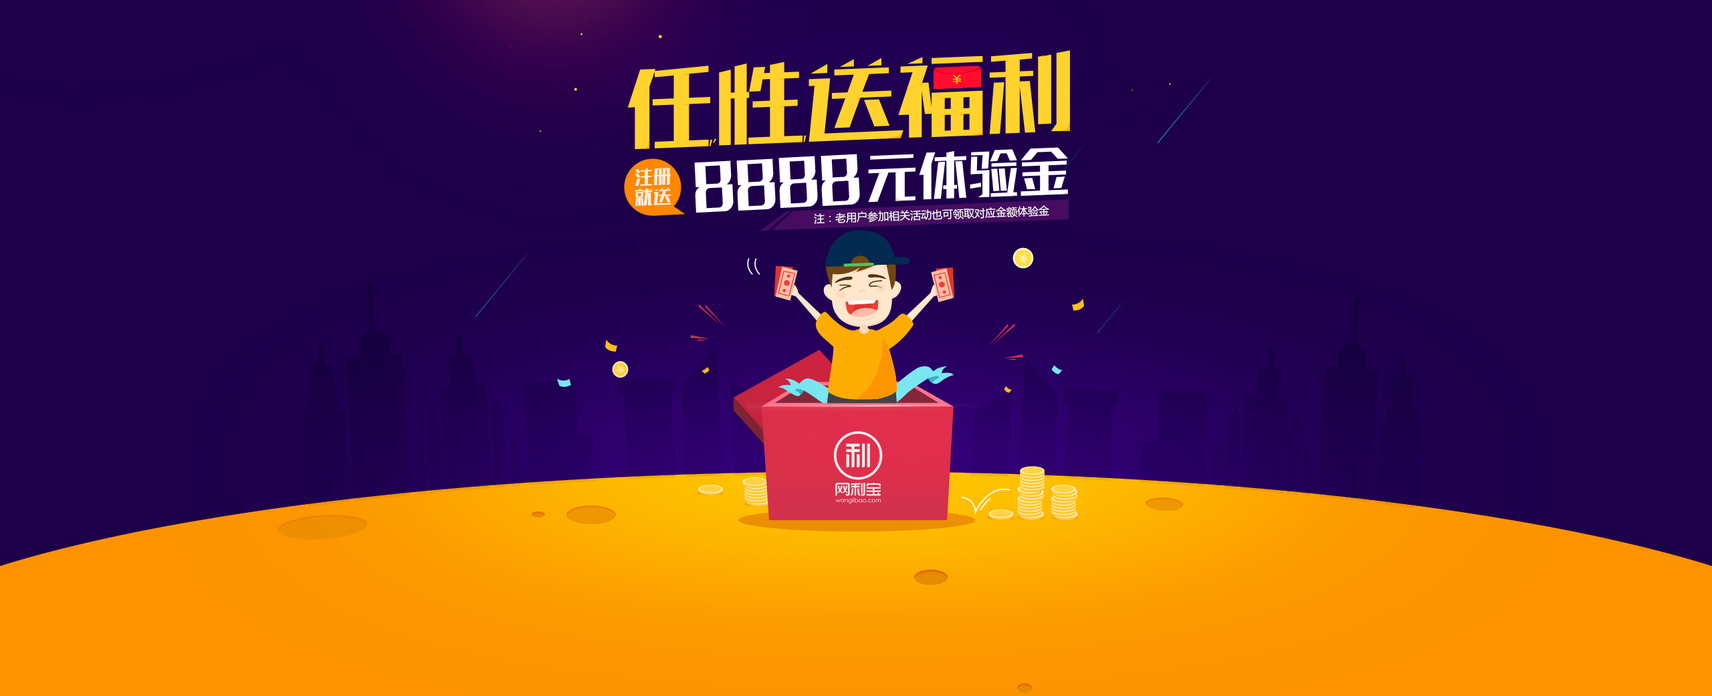
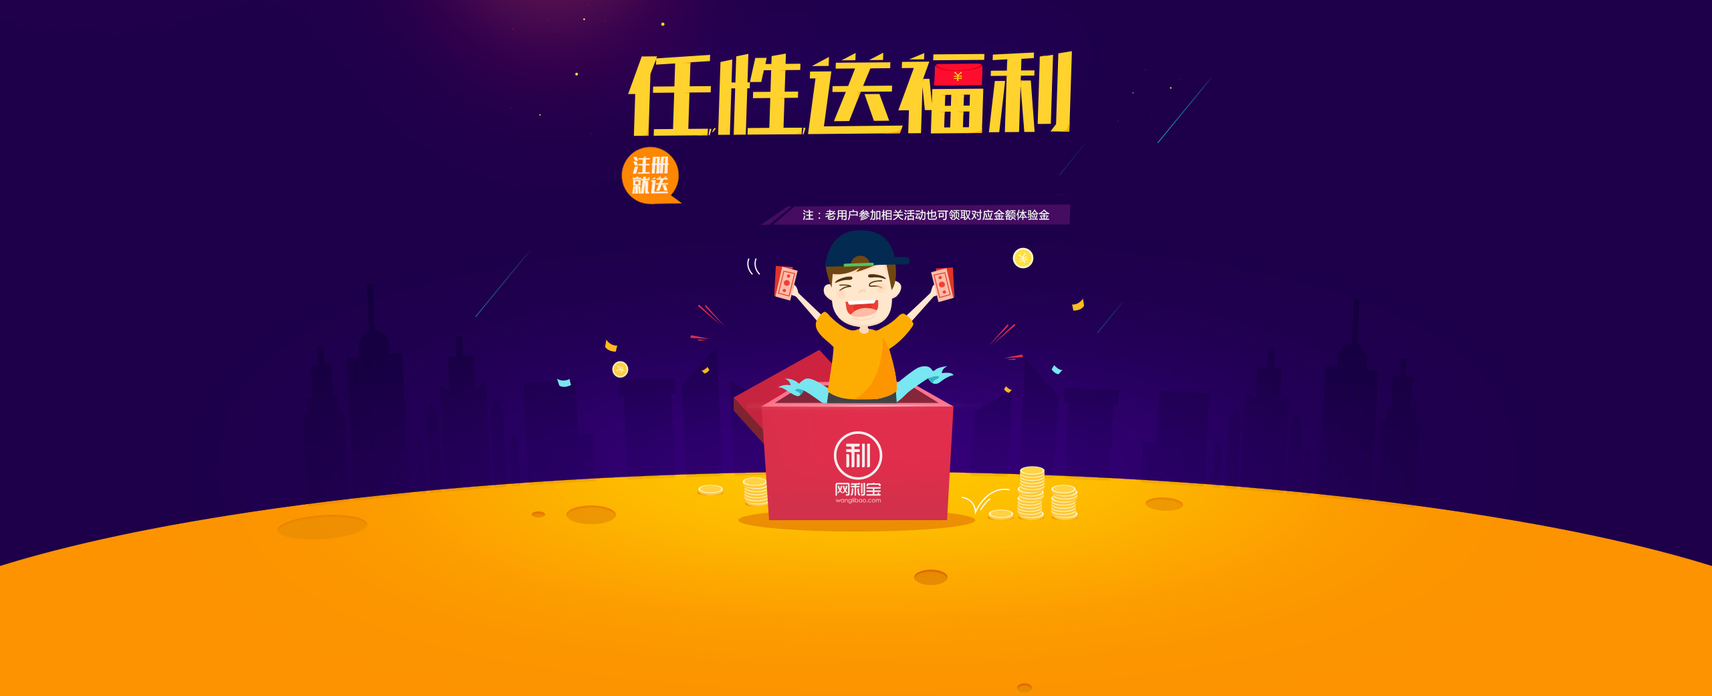
修改体验金金额

Changed region(s): [[0.3438, 0.0615, 0.625, 0.3381]]

diff --git a/static/styles/pc_activity/experience_gold.css b/static/styles/pc_activity/experience_gold.css
@@ -1,1 +1,1 @@
-.footer-sprite{background:url('../../imgs/pc/footer-s3376bb71f1.png') no-repeat}.home-sprite{background:url('../../imgs/pc/home-s9563fc9f50.png') no-repeat}.seckill-sprite{background:url('../../imgs/pc_activity/seckill-sa9edc467f3.png') no-repeat}.experience_gold-sprite,.experience_gold .banner .draw_btn a,.experience_gold .banner .draw_btn a:hover,.experience_gold .banner .draw_btn .draw_btn_ed,.experience_gold .banner .draw_btn .draw_btn_ed:hover,.experience_gold .content .experience_title span,.experience_gold .content .look_more_detail .more_btn span,.experience_gold .content .explain_box .explain_box_img .explain_content_box ul li span,#receiveSuccess a.close-modal,#oldUser a.close-modal,#newUser a.close-modal,#success a.close-modal,.receiveSuccess,.oldUser p span,.successBox p span{background:url('../../imgs/pc_activity/experience_gold-s13cfc1659e.png') no-repeat}.experience_gold{width:100%;height:100%}.experience_gold .banner{background:url("/static/imgs/pc_activity/experience_gold/banner.jpg") center center no-repeat;height:1041px;position:relative}.experience_gold .banner .draw_btn{position:absolute;bottom:38px;width:100%;text-align:center}.experience_gold .banner .draw_btn a{background-position:0 -528px;width:600px;height:100px;display:inline-block}.experience_gold .banner .draw_btn a:hover{background-position:0 -428px}.experience_gold .banner .draw_btn .draw_btn_ed{background-position:0 -914px;line-height:96px;font-size:36px;color:#f7cccc;font-weight:bold}.experience_gold .banner .draw_btn .draw_btn_ed:hover{background-position:0 -914px}.experience_gold .content{width:1097px;margin:0 auto}.experience_gold .content .experience_title{text-align:center;margin-top:135px}.experience_gold .content .experience_title span{background-position:0 -1038px;width:373px;height:69px;display:inline-block;color:#fff;text-align:center;font-size:30px;line-height:60px}.experience_gold .content .account_detail{padding:60px 57px}.experience_gold .content .account_detail li{background:#ffeed3;border-radius:10px;margin-right:73px;float:left;width:189px;height:112px;text-align:center}.experience_gold .content .account_detail li .experience_name{font-size:18px;color:#d0314b;padding:25px 0 5px}.experience_gold .content .account_detail li .experience_money{color:#f45e37;font-size:24px}.experience_gold .content .account_detail li.last{margin-right:0}.experience_gold .content .experience_project{padding:0 9px}.experience_gold .content .experience_project .project_div{background:#ffeed3;border-radius:8px;padding:25px 0 55px}.experience_gold .content .experience_project .project_div .project_left{width:815px;float:left}.experience_gold .content .experience_project .project_div .project_left h5{color:#d0314b;font-size:30px;text-indent:26px;margin-bottom:10px}.experience_gold .content .experience_project .project_div .project_left li{float:left;text-align:center}.experience_gold .content .experience_project .project_div .project_left li label{display:block;font-size:30px;color:#f45e37}.experience_gold .content .experience_project .project_div .project_left li span{display:block;font-size:20px;color:#fc8f02}.experience_gold .content .experience_project .project_div .project_left .li_one{width:196px}.experience_gold .content .experience_project .project_div .project_left .li_two{width:418px}.experience_gold .content .experience_project .project_div .project_left .li_three{width:199px}.experience_gold .content .experience_project .project_div .project_right{float:right}.experience_gold .content .experience_project .project_div .project_right a{width:234px;height:78px;line-height:78px;display:inline-block;background:#f45e37;color:#fff;border-radius:8px;text-align:center;font-size:30px;margin:50px 28px 0 0}.experience_gold .content .experience_project .project_div .project_right a.invest_ed{background:#fa8162}.experience_gold .content .experience_project .project_div .project_right .income_fonts{font-size:18px;color:#fc8f02;width:234px;text-align:center}.experience_gold .content .look_more_detail{text-align:center;padding:42px 0}.experience_gold .content .look_more_detail .more_btn{text-align:center;color:#c66032;font-size:20px;width:160px;margin:0 auto;cursor:pointer}.experience_gold .content .look_more_detail .more_btn label{cursor:pointer}.experience_gold .content .look_more_detail .more_btn span{background-position:0 -1107px;width:24px;height:18px;display:inline-block;cursor:pointer}.experience_gold .content .project_top{background:#86380a;height:12px;border-radius:20px;width:100%}.experience_gold .content .project_box{margin:-6px 10px 10px;background:#ffeed3;border-bottom-left-radius:10px;border-bottom-right-radius:10px}.experience_gold .content .project_box .project_ul_pre{padding:24px 24px 38px;background:url(/static/imgs/pc_activity/experience_gold/border.jpg) repeat-x top center}.experience_gold .content .project_box .project_ul_pre table{table-layout:fixed;border-collapse:collapse;width:100%}.experience_gold .content .project_box .project_ul_pre table thead{background:#f7deb6}.experience_gold .content .project_box .project_ul_pre table .th_w{width:178px}.experience_gold .content .project_box .project_ul_pre table tr{height:53px}.experience_gold .content .project_box .project_ul_pre table th,.experience_gold .content .project_box .project_ul_pre table td{text-align:center;font-size:16px}.experience_gold .content .project_box .project_ul_pre table tr:nth-child(even){background:#fffaf1}.experience_gold .content .explain_box{margin:65px 0 130px}.experience_gold .content .explain_box .explain_box_img{background:url(/static/imgs/pc_activity/experience_gold/explain.jpg) center center no-repeat;width:1021px;height:872px;margin:0 auto}.experience_gold .content .explain_box .explain_box_img .explain_content_box{width:745px;padding-top:86px;margin:0 auto}.experience_gold .content .explain_box .explain_box_img .explain_content_box .title_ex{text-align:center;font-size:20px;color:#d03144}.experience_gold .content .explain_box .explain_box_img .explain_content_box ul li{margin-top:50px}.experience_gold .content .explain_box .explain_box_img .explain_content_box ul li span{float:left;margin:5px 30px 0 0;background-position:0 -1014px;width:25px;height:24px;display:inline-block}.experience_gold .content .explain_box .explain_box_img .explain_content_box ul li .explain_content{float:left;width:688px;color:#705848;font-size:16px;line-height:31px}.experience_gold .content .explain_box .explain_box_img .explain_content_box ul li .explain_content .name{color:#624838}#receiveSuccess{width:515px;height:428px;text-align:center}#receiveSuccess a.close-modal{top:-5px;right:10px;background-position:0 -1125px;width:22px;height:22px;position:absolute;text-indent:-9999px}#oldUser,#newUser,#success{background:#fff;width:352px;border-radius:20px;padding:50px 0 30px}#oldUser a.close-modal,#newUser a.close-modal,#success a.close-modal{top:-5px;right:10px;background-position:0 -1125px;width:22px;height:22px;position:absolute;text-indent:-9999px;top:10px;right:10px}.btn,.receiveSuccess p a,.oldUser p.tc a{width:280px;height:48px;line-height:48px;background:#fb7c00;font-size:22px;color:#fff;border-radius:30px;display:inline-block}.receiveSuccess{background-position:0 0;width:515px;height:428px;padding-top:80px}.receiveSuccess p{line-height:50px;font-size:30px;color:#fff;text-align:center}.receiveSuccess p a{margin-top:40px}.receiveSuccess .money_count{font-size:60px;font-weight:bold;margin-bottom:50px}.receiveSuccess .money_count span{font-size:36px}.oldUser{width:350px;font-size:22px;color:#3f3f41}.oldUser p{text-indent:63px}.oldUser p span{background-position:0 -628px;width:124px;height:124px;display:inline-block;margin:10px 0 30px}.oldUser p.tc{text-align:center;text-indent:0}.oldUser p.tc a{background:#d1d1d1;color:#fff}.successBox{width:350px;text-align:center}.successBox p{font-size:22px;color:#3f3f41}.successBox p span{background-position:0 -752px;width:162px;height:162px;display:inline-block;margin:0 0 20px}.successBox p.succeesFonts{color:#fb7c00;font-size:30px;padding-bottom:5px}
+.footer-sprite{background:url('../../imgs/pc/footer-s3376bb71f1.png') no-repeat}.home-sprite{background:url('../../imgs/pc/home-s9563fc9f50.png') no-repeat}.seckill-sprite{background:url('../../imgs/pc_activity/seckill-sa9edc467f3.png') no-repeat}.experience_gold-sprite,.experience_gold .banner .draw_btn a,.experience_gold .banner .draw_btn a:hover,.experience_gold .banner .draw_btn .draw_btn_ed,.experience_gold .banner .draw_btn .draw_btn_ed:hover,.experience_gold .content .experience_title span,.experience_gold .content .look_more_detail .more_btn span,.experience_gold .content .explain_box .explain_box_img .explain_content_box ul li span,#receiveSuccess a.close-modal,#oldUser a.close-modal,#newUser a.close-modal,#success a.close-modal,.receiveSuccess,.oldUser p span,.successBox p span{background:url('../../imgs/pc_activity/experience_gold-s13cfc1659e.png') no-repeat}.experience_gold{width:100%;height:100%}.experience_gold .banner{background:url("/static/imgs/pc_activity/experience_gold/banner.jpg") center center no-repeat;height:1041px;position:relative}.experience_gold .banner .experience_gold_sum{width:980px;margin:0 auto;height:100px;position:relative}.experience_gold .banner .experience_gold_sum .experience_gold_sum_s{position:absolute;left:245px;top:200px;font-size:80.6px;color:#fff;font-weight:bold}.experience_gold .banner .draw_btn{position:absolute;bottom:38px;width:100%;text-align:center}.experience_gold .banner .draw_btn a{background-position:0 -528px;width:600px;height:100px;display:inline-block}.experience_gold .banner .draw_btn a:hover{background-position:0 -428px}.experience_gold .banner .draw_btn .draw_btn_ed{background-position:0 -914px;line-height:96px;font-size:36px;color:#f7cccc;font-weight:bold}.experience_gold .banner .draw_btn .draw_btn_ed:hover{background-position:0 -914px}.experience_gold .content{width:1097px;margin:0 auto}.experience_gold .content .experience_title{text-align:center;margin-top:135px}.experience_gold .content .experience_title span{background-position:0 -1038px;width:373px;height:69px;display:inline-block;color:#fff;text-align:center;font-size:30px;line-height:60px}.experience_gold .content .account_detail{padding:60px 57px}.experience_gold .content .account_detail li{background:#ffeed3;border-radius:10px;margin-right:73px;float:left;width:189px;height:112px;text-align:center}.experience_gold .content .account_detail li .experience_name{font-size:18px;color:#d0314b;padding:25px 0 5px}.experience_gold .content .account_detail li .experience_money{color:#f45e37;font-size:24px}.experience_gold .content .account_detail li.last{margin-right:0}.experience_gold .content .experience_project{padding:0 9px}.experience_gold .content .experience_project .project_div{background:#ffeed3;border-radius:8px;padding:25px 0 55px}.experience_gold .content .experience_project .project_div .project_left{width:815px;float:left}.experience_gold .content .experience_project .project_div .project_left h5{color:#d0314b;font-size:30px;text-indent:26px;margin-bottom:10px}.experience_gold .content .experience_project .project_div .project_left li{float:left;text-align:center}.experience_gold .content .experience_project .project_div .project_left li label{display:block;font-size:30px;color:#f45e37}.experience_gold .content .experience_project .project_div .project_left li span{display:block;font-size:20px;color:#fc8f02}.experience_gold .content .experience_project .project_div .project_left .li_one{width:196px}.experience_gold .content .experience_project .project_div .project_left .li_two{width:418px}.experience_gold .content .experience_project .project_div .project_left .li_three{width:199px}.experience_gold .content .experience_project .project_div .project_right{float:right}.experience_gold .content .experience_project .project_div .project_right a{width:234px;height:78px;line-height:78px;display:inline-block;background:#f45e37;color:#fff;border-radius:8px;text-align:center;font-size:30px;margin:50px 28px 0 0}.experience_gold .content .experience_project .project_div .project_right a.invest_ed{background:#fa8162}.experience_gold .content .experience_project .project_div .project_right .income_fonts{font-size:18px;color:#fc8f02;width:234px;text-align:center}.experience_gold .content .look_more_detail{text-align:center;padding:42px 0}.experience_gold .content .look_more_detail .more_btn{text-align:center;color:#c66032;font-size:20px;width:160px;margin:0 auto;cursor:pointer}.experience_gold .content .look_more_detail .more_btn label{cursor:pointer}.experience_gold .content .look_more_detail .more_btn span{background-position:0 -1107px;width:24px;height:18px;display:inline-block;cursor:pointer}.experience_gold .content .project_top{background:#86380a;height:12px;border-radius:20px;width:100%}.experience_gold .content .project_box{margin:-6px 10px 10px;background:#ffeed3;border-bottom-left-radius:10px;border-bottom-right-radius:10px}.experience_gold .content .project_box .project_ul_pre{padding:24px 24px 38px;background:url(/static/imgs/pc_activity/experience_gold/border.jpg) repeat-x top center}.experience_gold .content .project_box .project_ul_pre table{table-layout:fixed;border-collapse:collapse;width:100%}.experience_gold .content .project_box .project_ul_pre table thead{background:#f7deb6}.experience_gold .content .project_box .project_ul_pre table .th_w{width:178px}.experience_gold .content .project_box .project_ul_pre table tr{height:53px}.experience_gold .content .project_box .project_ul_pre table th,.experience_gold .content .project_box .project_ul_pre table td{text-align:center;font-size:16px}.experience_gold .content .project_box .project_ul_pre table tr:nth-child(even){background:#fffaf1}.experience_gold .content .explain_box{margin:65px 0 130px}.experience_gold .content .explain_box .explain_box_img{background:url(/static/imgs/pc_activity/experience_gold/explain.jpg) center center no-repeat;width:1021px;height:872px;margin:0 auto}.experience_gold .content .explain_box .explain_box_img .explain_content_box{width:745px;padding-top:86px;margin:0 auto}.experience_gold .content .explain_box .explain_box_img .explain_content_box .title_ex{text-align:center;font-size:20px;color:#d03144}.experience_gold .content .explain_box .explain_box_img .explain_content_box ul li{margin-top:50px}.experience_gold .content .explain_box .explain_box_img .explain_content_box ul li span{float:left;margin:5px 30px 0 0;background-position:0 -1014px;width:25px;height:24px;display:inline-block}.experience_gold .content .explain_box .explain_box_img .explain_content_box ul li .explain_content{float:left;width:688px;color:#705848;font-size:16px;line-height:31px}.experience_gold .content .explain_box .explain_box_img .explain_content_box ul li .explain_content .name{color:#624838}#receiveSuccess{width:515px;height:428px;text-align:center}#receiveSuccess a.close-modal{top:-5px;right:10px;background-position:0 -1125px;width:22px;height:22px;position:absolute;text-indent:-9999px}#oldUser,#newUser,#success{background:#fff;width:352px;border-radius:20px;padding:50px 0 30px}#oldUser a.close-modal,#newUser a.close-modal,#success a.close-modal{top:-5px;right:10px;background-position:0 -1125px;width:22px;height:22px;position:absolute;text-indent:-9999px;top:10px;right:10px}.btn,.receiveSuccess p a,.oldUser p.tc a{width:280px;height:48px;line-height:48px;background:#fb7c00;font-size:22px;color:#fff;border-radius:30px;display:inline-block}.receiveSuccess{background-position:0 0;width:515px;height:428px;padding-top:80px}.receiveSuccess p{line-height:50px;font-size:30px;color:#fff;text-align:center}.receiveSuccess p a{margin-top:40px}.receiveSuccess .money_count{font-size:60px;font-weight:bold;margin-bottom:50px}.receiveSuccess .money_count span{font-size:36px}.oldUser{width:350px;font-size:22px;color:#3f3f41}.oldUser p{text-indent:63px}.oldUser p span{background-position:0 -628px;width:124px;height:124px;display:inline-block;margin:10px 0 30px}.oldUser p.tc{text-align:center;text-indent:0}.oldUser p.tc a{background:#d1d1d1;color:#fff}.successBox{width:350px;text-align:center}.successBox p{font-size:22px;color:#3f3f41}.successBox p span{background-position:0 -752px;width:162px;height:162px;display:inline-block;margin:0 0 20px}.successBox p.succeesFonts{color:#fb7c00;font-size:30px;padding-bottom:5px}

diff --git a/static/styles/mobile_activity/app_experience.css b/static/styles/mobile_activity/app_experience.css
@@ -1,1 +1,1 @@
-@keyframes mysnow{0%{bottom:100%;opacity:0}50%{opacity:1;transform:rotate(1080deg)}100%{transform:rotate(0deg);opacity:0;bottom:0}}@-webkit-keyframes mysnow{0%{bottom:100%;opacity:0}50%{opacity:1;-webkit-transform:rotate(1080deg)}100%{-webkit-transform:rotate(0deg);opacity:0;bottom:0}}@-moz-keyframes mysnow{0%{bottom:100%;opacity:0}50%{opacity:1;-webkit-transform:rotate(1080deg)}100%{-webkit-transform:rotate(0deg);opacity:0;bottom:0}}@-o-keyframes mysnow{0%{bottom:100%;opacity:0}50%{opacity:1;-webkit-transform:rotate(1080deg)}100%{-webkit-transform:rotate(0deg);opacity:0;bottom:0}}html{font-size:20px;background:#efeff4}html *{outline:none;-webkit-text-size-adjust:none;-webkit-tap-highlight-color:rgba(0,0,0,0);-webkit-box-sizing:border-box}html,body{font-family:"Helvetica Neue",Helvetica,Arial,sans-serif}body,div,dl,dt,dd,ul,ol,li,h1,h2,h3,h4,h5,h6,form,input,textarea,p,th,td,hr,button,article,aside,footer,header,menu,nav,section{margin:0;padding:0}input,select,textarea{font-size:100%}table{border-collapse:collapse;border-spacing:0}img{border:0}ol,ul{list-style:none}h1,h2,h3,h4,h5,h6{font-size:100%;font-weight:500}a{text-decoration:none;cursor:auto;color:inherit}a:visited{color:inherit}body{background:#fc9300}.banner{position:relative}.banner img{width:100%}.banner .receive_box{position:absolute;width:100%;text-align:center;bottom:0.45rem;padding:0 1.825rem}.banner .receive_box .invested,.banner .receive_box .investedH{width:100%;height:2.5rem;line-height:2.5rem;background:url(/static/imgs/mobile_activity/app_experience/ed.png) no-repeat;background-size:100% 100%;font-size:0.9rem;color:#f7cccc;font-weight:bold}.my_experience_gold{margin-top:1rem;border-top:2px dashed #d56900}.title{padding:1.325rem 3.25rem 1.475rem;text-align:center}.title .title_img{background:url(/static/imgs/mobile_activity/app_experience/title.png);background-size:100% 100%;color:#fff;font-size:0.9rem;height:2.35rem;line-height:2.075rem}.assets_list{display:-webkit-box;padding:0.8rem}.assets_list .assets_box{-webkit-box-flex:1;margin:0.5rem 1rem 0;width:50%}.assets_list .assets_box .box{margin-top:0.5rem;background:#ffeed3;border-radius:0.25rem;padding:0.925rem 0}.assets_list .assets_box .box p{text-align:center}.assets_list .assets_box .box .pt{color:#d0314b;font-size:0.6rem}.assets_list .assets_box .box .pb{font-size:0.825rem;color:#f45e37;font-family:"[FZLTTHK]";margin-top:0.6rem}.project{padding:1rem 0.8rem}.project .project_detail{background:#ffeed3;border-radius:0.25rem}.project .project_detail h5{padding:0.75rem 0 0.75rem 0.65rem;color:#d0314b;font-size:0.75rem}.project .project_detail .detail_font_box{display:-webkit-box;padding-bottom:1.3rem}.project .project_detail .detail_font_box .detail_font{-webkit-box-flex:1;text-align:center;line-height:0.875rem}.project .project_detail .detail_font_box .p2{-webkit-box-flex:1.5}.project .project_detail .detail_font_box .pt{color:#f45e37;font-size:0.75rem}.project .project_detail .detail_font_box .pb{color:#fc8f02;font-size:0.5rem}.project .project_detail .project_btn{text-align:center;padding-bottom:1.3rem}.project .project_detail .project_btn a.investBtn,.project .project_detail .project_btn .investBtnEd{background:#f45e37;color:#fff;font-size:0.75rem;display:inline-block;width:5.85rem;height:1.95rem;line-height:1.95rem;text-decoration:none;border-radius:0.25rem}.project .project_detail .project_btn a.investBtnEd{background:#fa8162}.project .project_detail .project_btn .time_style{font-size:0.5rem;color:#fc8f02;margin-top:0.2rem}.look_more{text-align:center;color:#c66032;font-size:0.5rem}.look_more span{display:inline-block}.look_more span i{background:url(/static/imgs/mobile_activity/app_experience/more.png) center no-repeat;background-size:cover;width:0.65rem;height:0.5rem;display:inline-block}.history-list{padding:0 0.8rem;height:0;overflow:hidden}.history-list .border-top{height:0.2rem;background:#7c3109;border-radius:0.2rem}.history-list .table_box{-moz-box-shadow:0px 5px 5px #d8be97 inset;-webkit-box-shadow:0px 5px 5px #d8be97 inset;box-shadow:0px 5px 5px #d8be97 inset;margin:-0.1rem 0.2rem 0;padding:0.5rem 0.45rem 0;background:#ffeed3;border-bottom-left-radius:0.25rem;border-bottom-right-radius:0.25rem}.history-list .table_box table{font-size:0.246rem;width:100%;table-layout:fixed;border-collapse:collapse;width:100%}.history-list .table_box table thead{background:#f7deb6;padding:0.35rem 0}.history-list .table_box table thead th.last{width:2.725rem}.history-list .table_box table tr:nth-child(even){background:#fffaf1}.history-list .table_box table td{text-align:center;color:#3e3e3e;padding:0.35rem 0}.re_box{padding:1.825rem 0 2.55rem;font-size:0}.re_box .rule_list{background:url(/static/imgs/mobile_activity/app_experience/bg.jpg) center center no-repeat;background-size:100% 100%;display:inline-block;margin:0 auto}.re_box .rule_list ul{width:100%;font-size:0.4rem;padding:2rem 1.5rem}.re_box .rule_list ul li{list-style-type:inherit;display:-webkit-box;margin-bottom:1rem;max-height:99999rem}.re_box .rule_list ul li span{display:block;width:0.675rem;height:0.725rem;background:url(/static/imgs/mobile_activity/app_experience/jinbi.png) center no-repeat;background-size:cover;margin-right:0.7rem}.re_box .rule_list ul li .rule_content{-webkit-box-flex:1;line-height:0.75rem}.re_box .rule_list ul li .rule_content .rule_content_top{color:#624838}.re_box .rule_list ul li .rule_content .rule_content_bt{color:#705848}.re_box .rule_list ul li .rule_content .p_last{margin-top:1.175rem;color:#705848}.re_box .rule_list ul .title{text-align:center;color:#d03144;font-size:0.5rem;display:block;padding:0}.successWin{position:relative;background:url("/static/imgs/mobile_activity/app_experience/hongbao.png") no-repeat;background-size:100% 100%;width:100%;height:15rem}.successWin img{width:100%}.successWin .winContent{position:absolute;top:0;left:0;width:100%;text-align:center;padding-top:2.5rem;color:#fff}.successWin .winContent .qianshu{font-size:1.825rem;font-weight:bold}.successWin .winContent .qianshu span{font-size:1.1rem}.successWin .winContent .con1{margin-top:2rem;font-size:1rem}.successWin .winContent .con2{margin-bottom:1.2rem;font-size:1rem}.successWin .btns{text-align:center;width:100%;z-index:10000}.successWin .btns a{width:45%;height:1.5rem;line-height:1.5rem;font-size:0.6rem;background:#fb7c00;color:#fff;display:inline-block;border-radius:0.5rem;z-index:100000}.investWin{position:fixed;top:35%;left:50%;width:14rem;margin:-2.75rem 0 0 -7rem;background:#fafafa;border-radius:0.5rem;z-index:1000001;padding:1.9rem 0 1.45rem}.investWin p{text-align:center;font-size:0.775rem;color:#3f3f41}.investWin .successFonts{color:#fb7c00;font-size:1.055rem;padding:0.75rem 0}.oldUserWin{position:fixed;top:35%;left:50%;width:14rem;margin:-2.75rem 0 0 -7rem;background:#fafafa;border-radius:0.5rem;z-index:1000001;padding:1.9rem 0 1.45rem;text-align:center}.oldUserWin .p_left{text-align:left;padding-left:2.175rem;color:#3f3f41;font-size:0.77rem}.oldUserWin img{width:4.35rem;height:4.35rem;margin:0.5rem 0 1rem}.oldUserWin .close_btn{width:80%;height:1.5rem;line-height:1.5rem;font-size:0.6rem;background:#d1d1d1;color:#fff;display:inline-block;border-radius:0.5rem}#showMoney{width:100%;top:0px;position:fixed;z-index:999999999999}.roll{position:absolute;opacity:0;animation:mysnow 5s;-webkit-animation:mysnow 5s;-moz-animation:mysnow 5s;ms-animation:mysnow 5s;-o-animation:mysnow 5s;width:0.825rem;height:0.8rem}.div{position:fixed;z-index:999}
+@keyframes mysnow{0%{bottom:100%;opacity:0}50%{opacity:1;transform:rotate(1080deg)}100%{transform:rotate(0deg);opacity:0;bottom:0}}@-webkit-keyframes mysnow{0%{bottom:100%;opacity:0}50%{opacity:1;-webkit-transform:rotate(1080deg)}100%{-webkit-transform:rotate(0deg);opacity:0;bottom:0}}@-moz-keyframes mysnow{0%{bottom:100%;opacity:0}50%{opacity:1;-webkit-transform:rotate(1080deg)}100%{-webkit-transform:rotate(0deg);opacity:0;bottom:0}}@-o-keyframes mysnow{0%{bottom:100%;opacity:0}50%{opacity:1;-webkit-transform:rotate(1080deg)}100%{-webkit-transform:rotate(0deg);opacity:0;bottom:0}}html{font-size:20px;background:#efeff4}html *{outline:none;-webkit-text-size-adjust:none;-webkit-tap-highlight-color:rgba(0,0,0,0);-webkit-box-sizing:border-box}html,body{font-family:"Helvetica Neue",Helvetica,Arial,sans-serif}body,div,dl,dt,dd,ul,ol,li,h1,h2,h3,h4,h5,h6,form,input,textarea,p,th,td,hr,button,article,aside,footer,header,menu,nav,section{margin:0;padding:0}input,select,textarea{font-size:100%}table{border-collapse:collapse;border-spacing:0}img{border:0}ol,ul{list-style:none}h1,h2,h3,h4,h5,h6{font-size:100%;font-weight:500}a{text-decoration:none;cursor:auto;color:inherit}a:visited{color:inherit}body{background:#fc9300}.banner{position:relative}.banner img{width:100%}.banner .receive_box{position:absolute;width:100%;text-align:center;bottom:0.45rem;padding:0 1.825rem}.banner .receive_box .invested,.banner .receive_box .investedH{width:100%;height:2.5rem;line-height:2.5rem;background:url(/static/imgs/mobile_activity/app_experience/ed.png) no-repeat;background-size:100% 100%;font-size:0.9rem;color:#f7cccc;font-weight:bold}.banner .banner_fonts_div{position:absolute;top:0;left:0;width:100%}.banner .banner_fonts_div .banner_fonts{background:url(/static/imgs/mobile_activity/app_experience/banner_fonts.png) no-repeat;background-size:100% 100%;width:80.8%;height:6.1rem;position:relative;margin:18% auto 0}@media screen and (max-width: 640px){.banner .banner_fonts_div .banner_fonts{margin:12% auto 0}}.banner .banner_fonts_div .banner_fonts .fonts_style{position:absolute;color:#fff;left:2.5rem;top:3rem;font-size:1.8rem}@media screen and (max-width: 640px){.banner .banner_fonts_div .banner_fonts .fonts_style{font-size:1.5rem}}.my_experience_gold{margin-top:1rem;border-top:2px dashed #d56900}.title{padding:1.325rem 3.25rem 1.475rem;text-align:center}.title .title_img{background:url(/static/imgs/mobile_activity/app_experience/title.png);background-size:100% 100%;color:#fff;font-size:0.9rem;height:2.35rem;line-height:2.075rem}.assets_list{display:-webkit-box;padding:0.8rem}.assets_list .assets_box{-webkit-box-flex:1;margin:0.5rem 1rem 0;width:50%}.assets_list .assets_box .box{margin-top:0.5rem;background:#ffeed3;border-radius:0.25rem;padding:0.925rem 0}.assets_list .assets_box .box p{text-align:center}.assets_list .assets_box .box .pt{color:#d0314b;font-size:0.6rem}.assets_list .assets_box .box .pb{font-size:0.825rem;color:#f45e37;font-family:"[FZLTTHK]";margin-top:0.6rem}.project{padding:1rem 0.8rem}.project .project_detail{background:#ffeed3;border-radius:0.25rem}.project .project_detail h5{padding:0.75rem 0 0.75rem 0.65rem;color:#d0314b;font-size:0.75rem}.project .project_detail .detail_font_box{display:-webkit-box;padding-bottom:1.3rem}.project .project_detail .detail_font_box .detail_font{-webkit-box-flex:1;text-align:center;line-height:0.875rem}.project .project_detail .detail_font_box .p2{-webkit-box-flex:1.5}.project .project_detail .detail_font_box .pt{color:#f45e37;font-size:0.75rem}.project .project_detail .detail_font_box .pb{color:#fc8f02;font-size:0.5rem}.project .project_detail .project_btn{text-align:center;padding-bottom:1.3rem}.project .project_detail .project_btn a.investBtn,.project .project_detail .project_btn .investBtnEd{background:#f45e37;color:#fff;font-size:0.75rem;display:inline-block;width:5.85rem;height:1.95rem;line-height:1.95rem;text-decoration:none;border-radius:0.25rem}.project .project_detail .project_btn a.investBtnEd{background:#fa8162}.project .project_detail .project_btn .time_style{font-size:0.5rem;color:#fc8f02;margin-top:0.2rem}.look_more{text-align:center;color:#c66032;font-size:0.5rem}.look_more span{display:inline-block}.look_more span i{background:url(/static/imgs/mobile_activity/app_experience/more.png) center no-repeat;background-size:cover;width:0.65rem;height:0.5rem;display:inline-block}.history-list{padding:0 0.8rem;height:0;overflow:hidden}.history-list .border-top{height:0.2rem;background:#7c3109;border-radius:0.2rem}.history-list .table_box{-moz-box-shadow:0px 5px 5px #d8be97 inset;-webkit-box-shadow:0px 5px 5px #d8be97 inset;box-shadow:0px 5px 5px #d8be97 inset;margin:-0.1rem 0.2rem 0;padding:0.5rem 0.45rem 0;background:#ffeed3;border-bottom-left-radius:0.25rem;border-bottom-right-radius:0.25rem}.history-list .table_box table{font-size:0.246rem;width:100%;table-layout:fixed;border-collapse:collapse;width:100%}.history-list .table_box table thead{background:#f7deb6;padding:0.35rem 0}.history-list .table_box table thead th.last{width:2.725rem}.history-list .table_box table tr:nth-child(even){background:#fffaf1}.history-list .table_box table td{text-align:center;color:#3e3e3e;padding:0.35rem 0}.re_box{padding:1.825rem 0 2.55rem;font-size:0}.re_box .rule_list{background:url(/static/imgs/mobile_activity/app_experience/bg.jpg) center center no-repeat;background-size:100% 100%;display:inline-block;margin:0 auto}.re_box .rule_list ul{width:100%;font-size:0.4rem;padding:2rem 1.5rem}.re_box .rule_list ul li{list-style-type:inherit;display:-webkit-box;margin-bottom:1rem;max-height:99999rem}.re_box .rule_list ul li span{display:block;width:0.675rem;height:0.725rem;background:url(/static/imgs/mobile_activity/app_experience/jinbi.png) center no-repeat;background-size:cover;margin-right:0.7rem}.re_box .rule_list ul li .rule_content{-webkit-box-flex:1;line-height:0.75rem}.re_box .rule_list ul li .rule_content .rule_content_top{color:#624838}.re_box .rule_list ul li .rule_content .rule_content_bt{color:#705848}.re_box .rule_list ul li .rule_content .p_last{margin-top:1.175rem;color:#705848}.re_box .rule_list ul .title{text-align:center;color:#d03144;font-size:0.5rem;display:block;padding:0}.successWin{position:relative;background:url("/static/imgs/mobile_activity/app_experience/hongbao.png") no-repeat;background-size:100% 100%;width:100%;height:15rem}.successWin img{width:100%}.successWin .winContent{position:absolute;top:0;left:0;width:100%;text-align:center;padding-top:2.5rem;color:#fff}.successWin .winContent .qianshu{font-size:1.825rem;font-weight:bold}.successWin .winContent .qianshu span{font-size:1.1rem}.successWin .winContent .con1{margin-top:2rem;font-size:1rem}.successWin .winContent .con2{margin-bottom:1.2rem;font-size:1rem}.successWin .btns{text-align:center;width:100%;z-index:10000}.successWin .btns a{width:45%;height:1.5rem;line-height:1.5rem;font-size:0.6rem;background:#fb7c00;color:#fff;display:inline-block;border-radius:0.5rem;z-index:100000}.investWin{position:fixed;top:35%;left:50%;width:14rem;margin:-2.75rem 0 0 -7rem;background:#fafafa;border-radius:0.5rem;z-index:1000001;padding:1.9rem 0 1.45rem}.investWin p{text-align:center;font-size:0.775rem;color:#3f3f41}.investWin .successFonts{color:#fb7c00;font-size:1.055rem;padding:0.75rem 0}.oldUserWin{position:fixed;top:35%;left:50%;width:14rem;margin:-2.75rem 0 0 -7rem;background:#fafafa;border-radius:0.5rem;z-index:1000001;padding:1.9rem 0 1.45rem;text-align:center}.oldUserWin .p_left{text-align:left;padding-left:2.175rem;color:#3f3f41;font-size:0.77rem}.oldUserWin img{width:4.35rem;height:4.35rem;margin:0.5rem 0 1rem}.oldUserWin .close_btn{width:80%;height:1.5rem;line-height:1.5rem;font-size:0.6rem;background:#d1d1d1;color:#fff;display:inline-block;border-radius:0.5rem}#showMoney{width:100%;top:0px;position:fixed;z-index:999999999999}.roll{position:absolute;opacity:0;animation:mysnow 5s;-webkit-animation:mysnow 5s;-moz-animation:mysnow 5s;ms-animation:mysnow 5s;-o-animation:mysnow 5s;width:0.825rem;height:0.8rem}.div{position:fixed;z-index:999}

diff --git a/static/src/pc/experience_gold.js b/static/src/pc/experience_gold.js
@@ -47,7 +47,7 @@
             }
         }
     });
-
+    /*领取体验金*/
       $('.no_invest').on('click',function(){
           $.ajax({
             url: '/api/experience/get_experience/',
@@ -55,22 +55,27 @@
             data: {}
          }).done(function (xhr) {
             if(xhr.ret_code == 0){
+                $('#receiveSuccess').modal();
                 var par = $('#receiveSuccess');
-                $('#receiveSuccess').modal()
-                par.find('.close-modal').hide()
-                par.find('.money_count').html(xhr.data.amount+'<span>元</span>')
-                par.find('.money_counts').text(xhr.data.amount+'元体验金')
-                $('.tyjye').text(parseFloat($('.tyjye').text())+xhr.data.amount)
-                $('.zzc').text(parseFloat($('.zzc').text())+xhr.data.amount)
-                $('.rzje').text(xhr.data.amount+'元')
+                var tyjye = fmoney((parseFloat($('.tyjye').text())+xhr.data.amount),2);
+                var zzc = fmoney((parseFloat($('.zzc').text())+xhr.data.amount),2);
+                var rzje = fmoney(xhr.data.amount,2,1);
+                par.find('.close-modal').hide();
+                par.find('.money_count').html(xhr.data.amount+'<span>元</span>');
+                par.find('.money_counts').text(rzje+'元体验金')
+                $('.tyjye').text(tyjye);
+                $('.zzc').text(zzc);
+                $('.rzje').text(rzje+'元');
                 $('.invest_ed').removeClass('invest_ed').addClass('investBtn');
                 $('.no_invest').removeClass('no_invest').addClass('draw_btn_ed').text('已领取体验金'+ xhr.data.amount  +'元');
             }
          })
       })
+      /*老用户*/
       $('.invested').on('click',function(){
           $('#oldUser').modal()
       })
+      /*投标*/
       $('.project_right').delegate('.investBtn','click',function() {
          $.ajax({
             url: '/api/experience/buy/',
@@ -87,15 +92,39 @@
             },2000)
          })
       })
+      /*展开更多*/
       $('.more_btn').on('click',function(){
         $('.project_list').slideToggle()
       })
+      /*关闭弹框*/
       $('#closeBtn').on('click',function(){
         $.modal.close()
       })
+      /*去投资按钮下滑*/
       $('#goBtn').on('click',function(){
         $.modal.close()
         $('body,html').animate({scrollTop: $('.experience_project').offset().top}, 600);
       })
+      /*格式化金额*/
+        function fmoney(s, n, m)
+        {
+           n = n > 0 && n <= 20 ? n : 2;
+           s = parseFloat((s + "").replace(/[^\d\.-]/g, "")).toFixed(n) + "";
+           var l = s.split(".")[0].split("").reverse(),
+           r = s.split(".")[1];
+           console.dir(m +'dddddddd' + r)
+           t = "";
+           for(i = 0; i < l.length; i ++ )
+           {
+              t += l[i] + ((i + 1) % 3 == 0 && (i + 1) != l.length ? "," : "");
+           }
+           if(m == 1 && r == '00')
+           {
+               return t.split("").reverse().join("");
+           }else{
+               return t.split("").reverse().join("") + "." + r;
+           }
+
+        }
   });
 }).call(this);

diff --git a/static/scripts/mobile_activity/app_experience.js b/static/scripts/mobile_activity/app_experience.js
@@ -301,14 +301,16 @@ org.experience = (function(org){
                         org.ui.alert('', function () {
                             $('body,html').scrollTo($('.project').offset().top);
                         }, '1')
-
+                        var tyjye = lib._fmoney((parseFloat($('.tyjye').text())+data.data.amount),2);
+                        var zzc = lib._fmoney((parseFloat($('.zzc').text())+data.data.amount),2);
+                        var rzje = lib._fmoney(data.data.amount,2,1);
                         $('.qianshu').html(data.data.amount+'<span>元</span>')
-                        $('.icon2').text(data.data.amount+'元体验金')
-                        $('.tyjye').text(parseFloat($('.tyjye').text())+data.data.amount)
-                        $('.zzc').text(parseFloat($('.zzc').text())+data.data.amount)
-                        $('.rzje').text(data.data.amount+'元')
+                        $('.icon2').text(rzje+'元体验金')
+                        $('.tyjye').text(tyjye);
+                        $('.zzc').text(zzc);
+                        $('.rzje').text(rzje+'元');
                         $('.investBtnEd').removeClass('investBtnEd').addClass('investBtn');
-                        $('.receive_box').find('img').hide()
+                        $('.receive_box').find('img').hide();
                         $('.receive_box').find('#edT').show().text('已领取体验金'+ data.data.amount +'元')
                     }
                 },
@@ -323,6 +325,7 @@ org.experience = (function(org){
             })
         },
         _goInvest:function(){
+            /*投资*/
             $('.project_btn').delegate('.investBtn','click',function() {
               org.ajax({
                 url: '/api/experience/buy/',
@@ -342,7 +345,26 @@ org.experience = (function(org){
               });
             })
         },
+              /*格式化金额*/
+        _fmoney:function(s, n, m){
+           n = n > 0 && n <= 20 ? n : 2;
+           s = parseFloat((s + "").replace(/[^\d\.-]/g, "")).toFixed(n) + "";
+           var l = s.split(".")[0].split("").reverse(),
+           r = s.split(".")[1];
+           t = "";
+           for(i = 0; i < l.length; i ++ )
+           {
+              t += l[i] + ((i + 1) % 3 == 0 && (i + 1) != l.length ? "," : "");
+           }
+           if(m == 1 && r == '00')
+           {
+               return t.split("").reverse().join("");
+           }else{
+               return t.split("").reverse().join("") + "." + r;
+           }
+        },
         _bannerEffect:function(){
+            /*效果*/
             function snow(left,height,src){
                 var elem = $("<div />", {
                     css: {

diff --git a/static/src/mobile_activity/app_experience.js b/static/src/mobile_activity/app_experience.js
@@ -82,14 +82,16 @@ org.experience = (function(org){
                         org.ui.alert('', function () {
                             $('body,html').scrollTo($('.project').offset().top);
                         }, '1')
-
+                        var tyjye = lib._fmoney((parseFloat($('.tyjye').text())+data.data.amount),2);
+                        var zzc = lib._fmoney((parseFloat($('.zzc').text())+data.data.amount),2);
+                        var rzje = lib._fmoney(data.data.amount,2,1);
                         $('.qianshu').html(data.data.amount+'<span>元</span>')
-                        $('.icon2').text(data.data.amount+'元体验金')
-                        $('.tyjye').text(parseFloat($('.tyjye').text())+data.data.amount)
-                        $('.zzc').text(parseFloat($('.zzc').text())+data.data.amount)
-                        $('.rzje').text(data.data.amount+'元')
+                        $('.icon2').text(rzje+'元体验金')
+                        $('.tyjye').text(tyjye);
+                        $('.zzc').text(zzc);
+                        $('.rzje').text(rzje+'元');
                         $('.investBtnEd').removeClass('investBtnEd').addClass('investBtn');
-                        $('.receive_box').find('img').hide()
+                        $('.receive_box').find('img').hide();
                         $('.receive_box').find('#edT').show().text('已领取体验金'+ data.data.amount +'元')
                     }
                 },
@@ -104,6 +106,7 @@ org.experience = (function(org){
             })
         },
         _goInvest:function(){
+            /*投资*/
             $('.project_btn').delegate('.investBtn','click',function() {
               org.ajax({
                 url: '/api/experience/buy/',
@@ -123,7 +126,26 @@ org.experience = (function(org){
               });
             })
         },
+              /*格式化金额*/
+        _fmoney:function(s, n, m){
+           n = n > 0 && n <= 20 ? n : 2;
+           s = parseFloat((s + "").replace(/[^\d\.-]/g, "")).toFixed(n) + "";
+           var l = s.split(".")[0].split("").reverse(),
+           r = s.split(".")[1];
+           t = "";
+           for(i = 0; i < l.length; i ++ )
+           {
+              t += l[i] + ((i + 1) % 3 == 0 && (i + 1) != l.length ? "," : "");
+           }
+           if(m == 1 && r == '00')
+           {
+               return t.split("").reverse().join("");
+           }else{
+               return t.split("").reverse().join("") + "." + r;
+           }
+        },
         _bannerEffect:function(){
+            /*效果*/
             function snow(left,height,src){
                 var elem = $("<div />", {
                     css: {

diff --git a/static/scss/mobile_activity/app_experience.sass b/static/scss/mobile_activity/app_experience.sass
@@ -96,6 +96,29 @@ body
       font-size: .9rem
       color: #f7cccc
       font-weight: bold
+  .banner_fonts_div
+    position: absolute
+    top: 0
+    left: 0
+    width: 100%
+    .banner_fonts
+      background: url(/static/imgs/mobile_activity/app_experience/banner_fonts.png) no-repeat
+      background-size: 100% 100%
+      width: 80.8%
+      height: 6.1rem
+      position: relative
+      margin: 18% auto 0
+      @media screen and (max-width: 640px)
+        margin: 12% auto 0
+      .fonts_style
+        position: absolute
+        color: #ffffff
+        left: 2.5rem
+        top: 3rem
+        font-size: 1.8rem
+        @media screen and (max-width: 640px)
+          font-size: 1.5rem
+
 .my_experience_gold
   margin-top: 1rem
   border-top: 2px dashed #d56900

diff --git a/static/scss/pc_activity/partials/_experience_gold.sass b/static/scss/pc_activity/partials/_experience_gold.sass
@@ -5,6 +5,18 @@
     background: url('/static/imgs/pc_activity/experience_gold/banner.jpg') center center no-repeat
     height: 1041px
     position: relative
+    .experience_gold_sum
+      width: 980px
+      margin: 0 auto
+      height: 100px
+      position: relative
+      .experience_gold_sum_s
+        position: absolute
+        left: 245px
+        top: 200px
+        font-size: 80.6px
+        color: #ffffff
+        font-weight: bold
     .draw_btn
       position: absolute
       bottom: 38px
